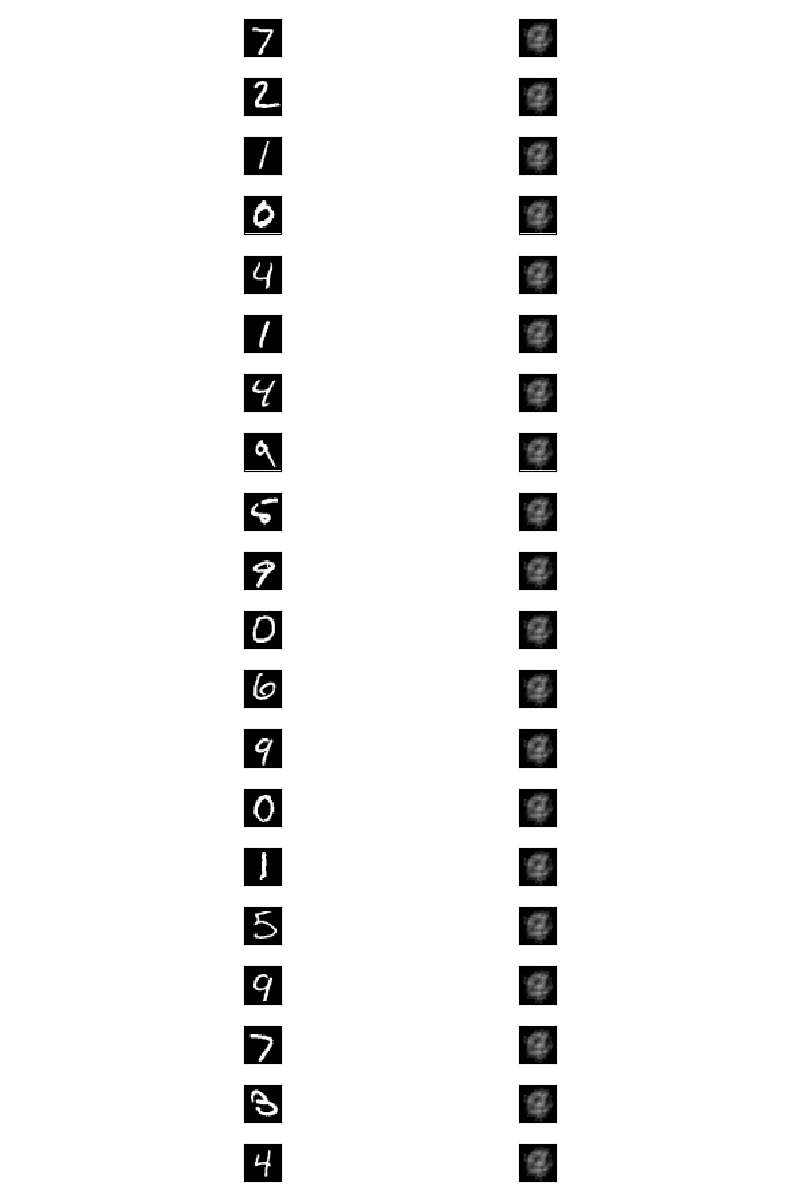
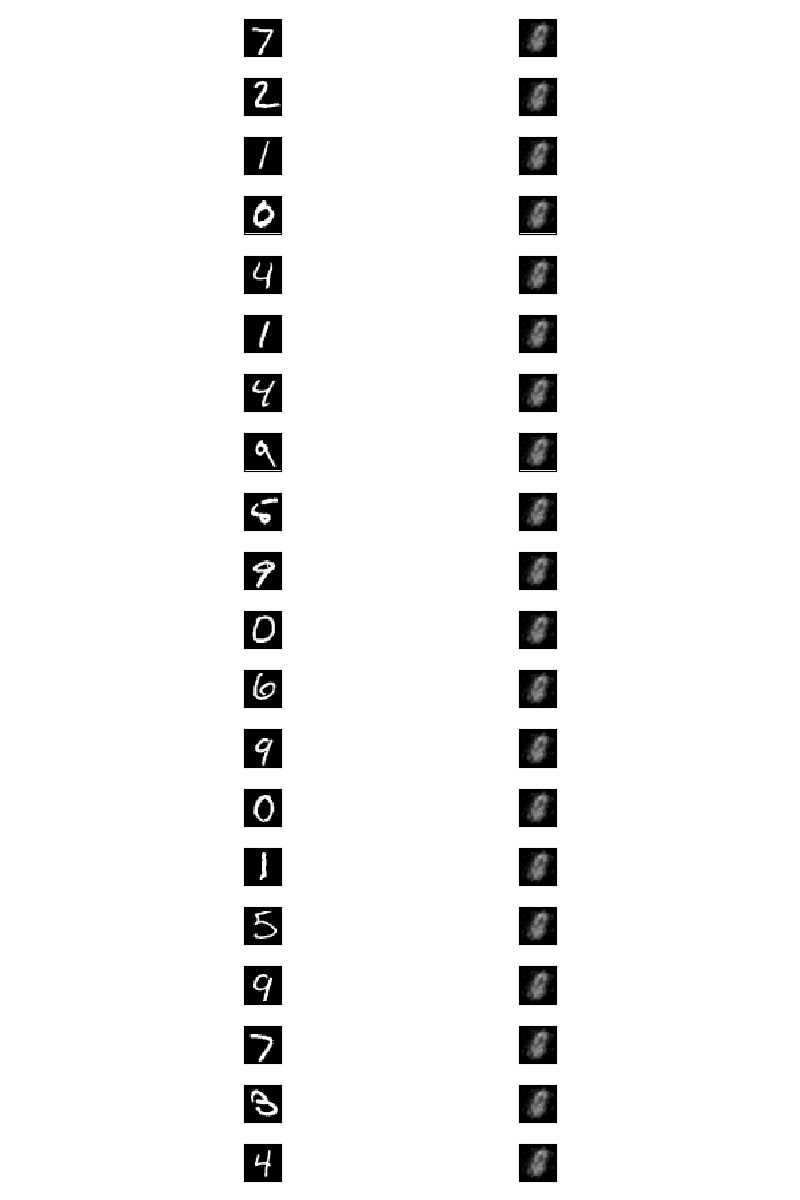
change z prior loss, increase num of iterations

diff --git a/VAE/utils/distributions.py b/VAE/utils/distributions.py
@@ -9,8 +9,8 @@ def tf_normal_logpdf(x, mu, log_sigma_sq):
     return - 0.5 * logc - log_sigma_sq / 2. - tf.div(tf.squared_difference(x, mu), 2 * tf.exp(log_sigma_sq))
 
 
-def tf_stdnormal_logpdf(x):
-    return - 0.5 * (logc + tf.square(x))
+def tf_stdnormal_logpdf(mu):
+    return - 0.5 * (logc + tf.square(mu))
 
 
 def tf_gaussian_ent(log_sigma_sq):
@@ -40,29 +40,13 @@ def prior_weights():
     return prior_weights_loss
 
 
-# https://github.com/saemundsson/semisupervised_vae/blob/master/vae.py
-
 def compute_ELBO(x_recon, x, y, z):
-    # if self.distributions['p_z'] == 'gaussian_marg'
-    # log_prior_z = tf.reduce_sum(tf_gaussian_marg(z[1], z[2]), 1)
-
-    # elif self.distributions['p_z'] == 'gaussian':
-    log_prior_z = tf.reduce_sum(tf_stdnormal_logpdf(z[0]), 1)
-
-    # if self.distributions['p_y'] == 'uniform':
-
     num_classes = 10
     y_prior = (1. / num_classes) * tf.ones_like(y)
-    log_prior_y = - tf.nn.softmax_cross_entropy_with_logits(logits=y_prior, labels=y)
+    z_prior = tf.ones_like(z[0])  # or z[0]?
+    log_prior_z = tf.reduce_sum(tf_stdnormal_logpdf(mu=z_prior), axis=1)
+    log_prior_y = -tf.nn.softmax_cross_entropy_with_logits(logits=y_prior, labels=y)
+    log_lik = tf.reduce_sum(tf_normal_logpdf(x, x_recon[0], x_recon[1]), axis=1)
+    log_post_z = tf.reduce_sum(tf_normal_logpdf(x=z[0], mu=z[1], log_sigma_sq=z[2]), axis=1)
 
-    # if self.distributions['p_x'] == 'gaussian':
-    log_lik = tf.reduce_sum(tf_normal_logpdf(x, x_recon[0], x_recon[1]), 1)
-
-    # if self.distributions['q_z'] == 'gaussian_marg':
-    # log_post_z = tf.reduce_sum(tf_gaussian_ent(z[2]), 1)
-
-    # elif self.distributions['q_z'] == 'gaussian':
-    log_post_z = tf.reduce_sum(tf_normal_logpdf(z[0], z[1], z[2]), 1)
-    print("log_prior_y:{}, log_lik:{}, log_prior_z:{}, log_post_z:{}".format(log_prior_y.shape, log_lik.shape,
-                                                                             log_prior_z.shape, log_post_z.shape))
     return log_prior_y + log_lik + log_prior_z - log_post_z

diff --git a/train_semi_supervised.py b/train_semi_supervised.py
@@ -158,7 +158,7 @@ if __name__ == '__main__':
         'summaries_dir': 'summaries/',
         'save_path': 'results/train_weights',
         'test_batch_size': 256,
-        'num_iterations': 20000,
+        'num_iterations': 40000,
         'num_batches': 100,
         'seed': 12000,
         'n_labeled': 100,
@@ -166,7 +166,7 @@ if __name__ == '__main__':
         'm1_h_dim': 600,
         'm2_h_dim': 500,
         'latent_dim': 50,
-        'require_improvement': 2000,
+        'require_improvement': 30000,
         'n_train': 50000,
         'learning_rate': 3e-4,
         'beta1': 0.9,
